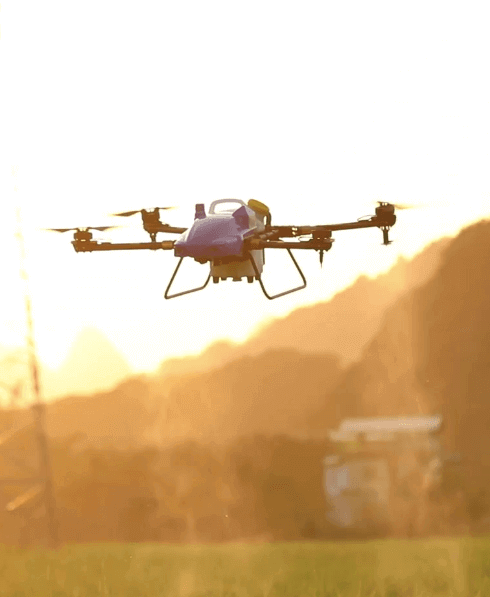
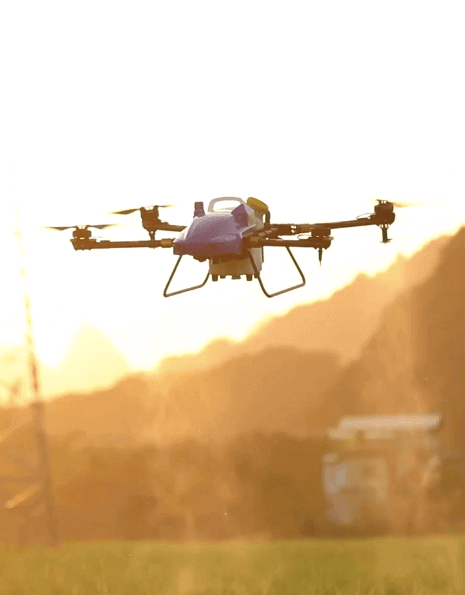
edited homeBanner

diff --git a/index.html b/index.html
@@ -103,7 +103,7 @@
         <div class="mobileHomeBanner homeBanner" style="margin-top: 52px;">
             <div class="carousel-inner h-100" style="background-color:white">
                 <div class="carousel-item active">
-                    <img class="d-block animate" style="width: auto;"
+                    <img class="d-block animate" style="padding-top:3.5rem;width: 100%;height:100%"
                         src="./static/img/homePage/banner.png" alt="First slide">
                     <div class="carousel-caption" style="padding-top:1.5rem;">
                         <a href="ea2020.html">
